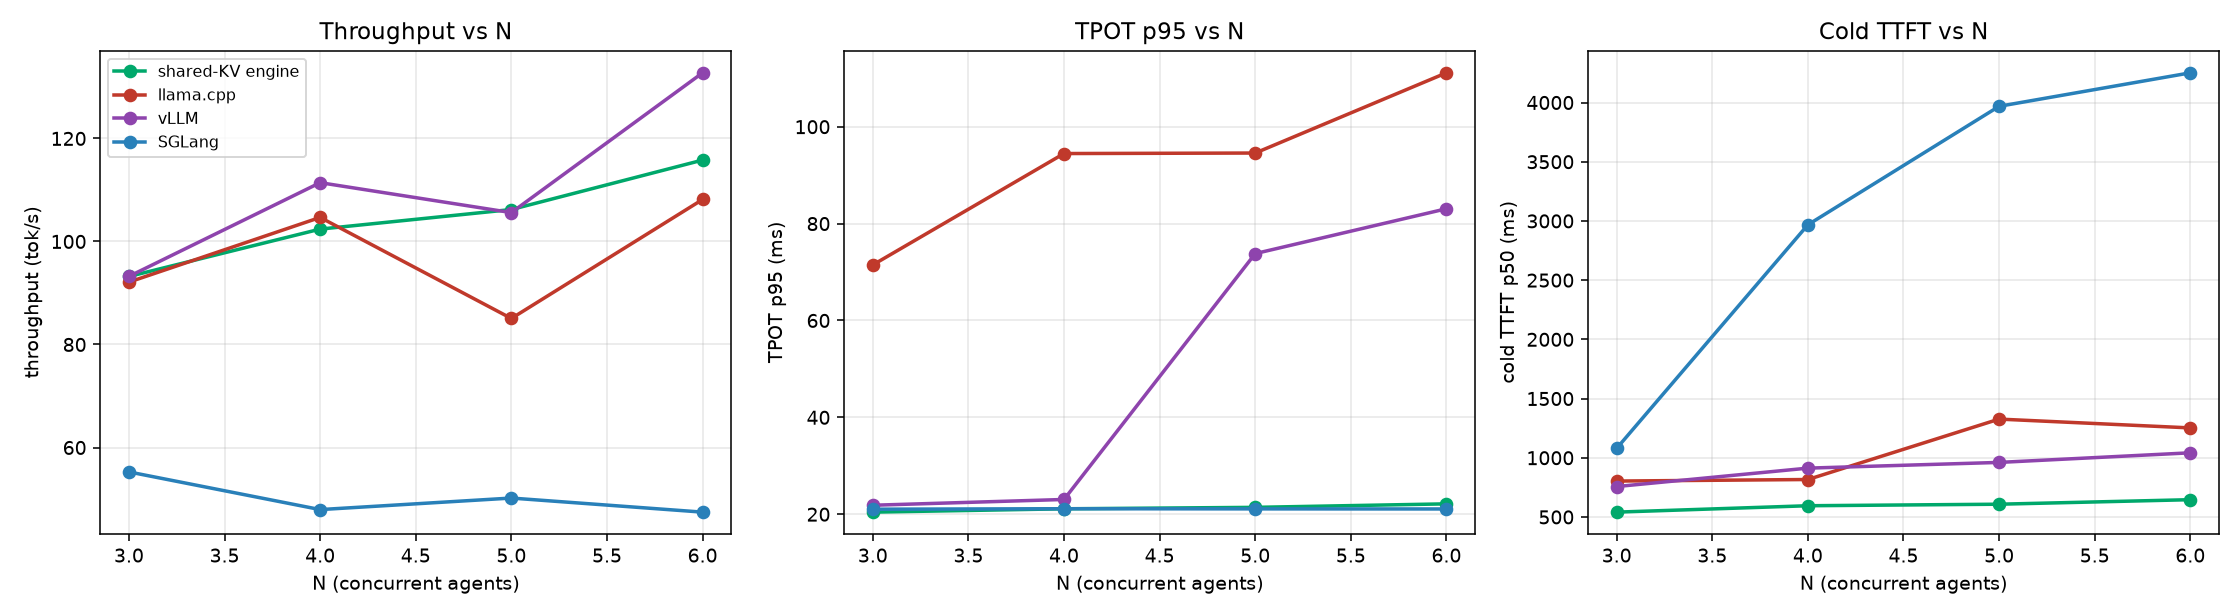
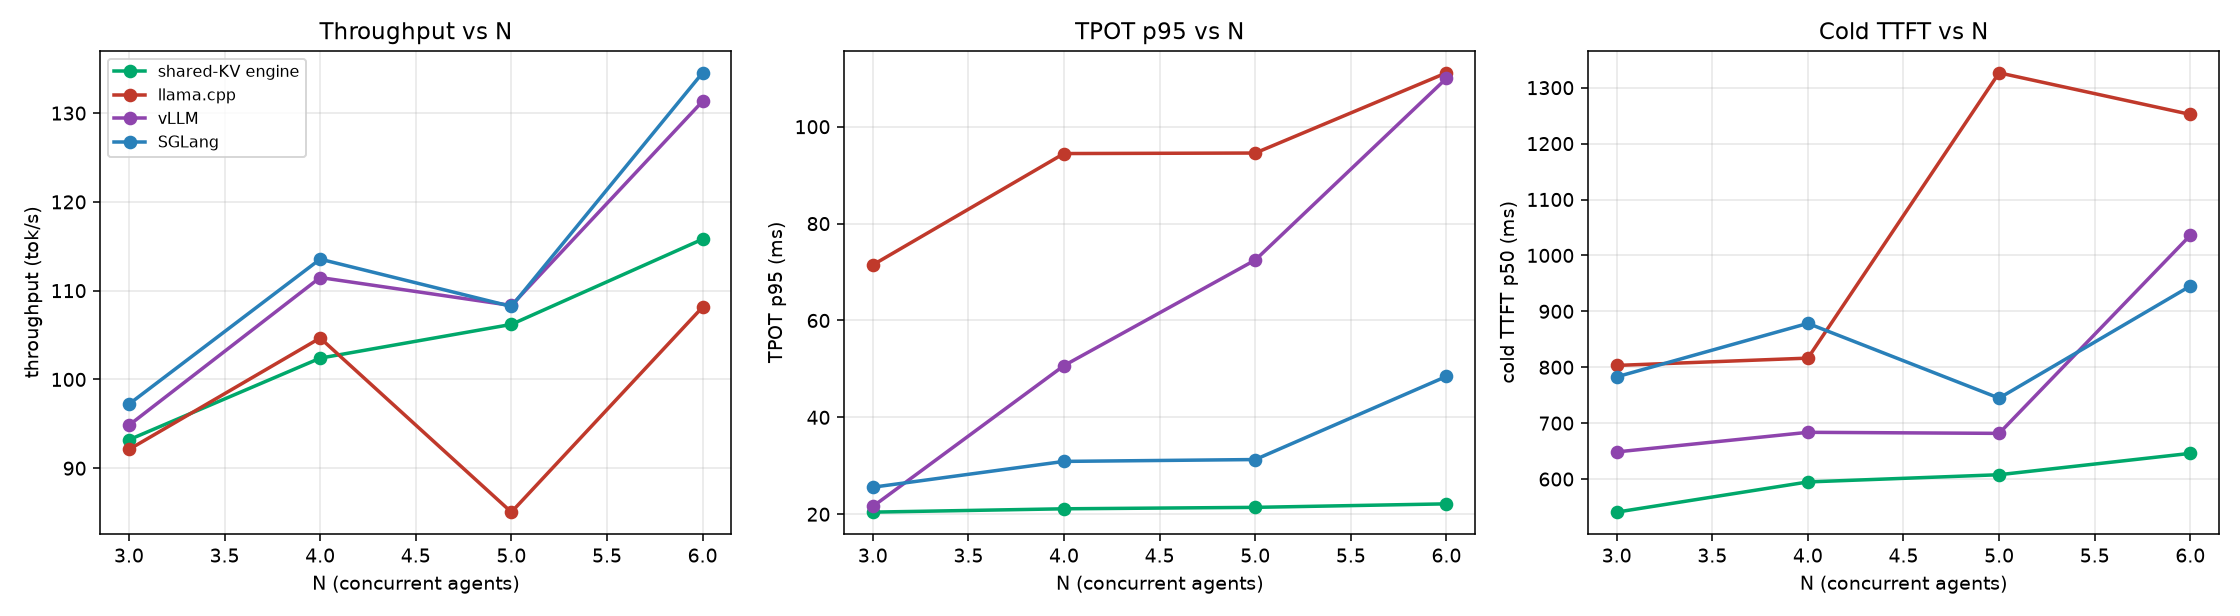
re-align 7B 4-way: re-measure vLLM/SGLang (Qwen2.5-7B) with correct context; update 7B metrics/figures/results + sync REPORT/README/docs

diff --git a/results/perparadigm-4way-7b.md b/results/perparadigm-4way-7b.md
@@ -1,54 +1,54 @@
-# Per-Paradigm 4-Way N-Scale — Qwen2.5-7B
-
-> **⚠ Context caveat (7B vLLM/SGLang):** the vLLM/SGLang columns in this file were measured with the **old under-sized context** (`--max-model-len 8192` / `--max-total-tokens 8192`), which starved SGLang's KV pool. Those numbers are **for reference only** and should be **re-measured** with `--max-model-len 32768` (vLLM) / `--max-total-tokens 49152` (SGLang) before being quoted. The engine and llama.cpp columns are valid. See [`../docs/notes/pitfalls.md`](../docs/notes/pitfalls.md).
-
- (real tasks, fixed baselines, tool_wait=0)
+# Per-Paradigm 4-Way N-Scale — Qwen2.5-7B (real tasks, fixed baselines, tool_wait=0)
 
 Status: **clean, sequential** (one backend at a time, GPU freed between runs). Same unified 12-task
 set as the 3B run (`data/unified_tasks.json`; 3B/7B share the Qwen tokenizer, so task text is
-identical). N=3…6, 12 sessions, tool_wait=0, RTX 3090, **Qwen2.5-7B (BASE)**.
+identical). N=3…6, 12 sessions, tool_wait=0, RTX 3090, **Qwen2.5-7B (BASE)**. vLLM/SGLang re-measured
+with adequate context (vLLM `--max-model-len 32768`, SGLang `--max-total-tokens 49152`).
 
 ## ReAct (7B)
 
 | metric | engine | llama.cpp | vLLM | SGLang |
 |---|---|---|---|---|
-| throughput 3→6 (tok/s) | 84.6→103.3 | 81.9→92.4 | 88.5→125.0 | 55.2→41.3 |
-| TPOT p95 3→6 (ms) | **20.8→22.3** | 65.0→125.8 | 27.9→45.0 | 30.2→24.8 |
-| cold TTFT 3→6 (ms) | **524.2→625.0** | 800.6→1179.0 | 617.6→1055.2 | 960.2→3331.0 |
+| throughput 3→6 (tok/s) | 84.6→103.3 | 81.9→92.4 | 88.8→123.6 | 90.3→125.2 |
+| TPOT p95 3→6 (ms) | **20.8→22.3** | 65.0→125.8 | 37.9→46.0 | 31.3→44.6 |
+| cold TTFT 3→6 (ms) | **524.2→625.0** | 800.6→1179.0 | 591.1→1214.5 | 590.5→958.6 |
 
-![ReAct 7B](../figures/react7-4way-nscale.png)
+![ReAct 7B](figures/react7-4way-nscale.png)
 
 ## P&E (7B)
 
 | metric | engine | llama.cpp | vLLM | SGLang |
 |---|---|---|---|---|
-| throughput 3→6 (tok/s) | 93.2→115.8 | 92.1→108.1 | 93.2→132.7 | 55.3→47.5 |
-| TPOT p95 3→6 (ms) | **20.4→22.1** | 71.5→111.1 | 21.9→83.1 | 21.0→21.1 |
-| cold TTFT 3→6 (ms) | **540.9→646.0** | 803.2→1252.2 | 756.9→1041.9 | 1079.5→4250.8 |
+| throughput 3→6 (tok/s) | 93.2→115.8 | 92.1→108.1 | 94.8→131.3 | 97.2→134.5 |
+| TPOT p95 3→6 (ms) | **20.4→22.1** | 71.5→111.1 | 21.6→110.0 | 25.6→48.5 |
+| cold TTFT 3→6 (ms) | **540.9→646.0** | 803.2→1252.2 | 648.5→1036.0 | 782.8→945.2 |
 
-![P&E 7B](../figures/pe7-4way-nscale.png)
+![P&E 7B](figures/pe7-4way-nscale.png)
 
 ## Findings (7B, consistent with 3B)
 
-- **Engine is the latency-stability leader in both paradigms**: TPOT p95 flat at **20–22 ms** (7B is
-  ~1.7× the 3B value) while llama.cpp explodes to 65–126 ms; cold TTFT is **lowest & flat**
-  (~520–650 ms, prefix caching) while SGLang explodes to **3331–4251 ms**.
-- **Throughput: vLLM highest** (89–133), the engine is 2nd (85–116), ahead of llama.cpp and well
-  above SGLang (41–55).
-- **The engine's advantage grows with model size**: on 7B, the TPOT-p95 gap vs llama.cpp widens
-  (22 vs 126 ms at N=6) and the cold-TTFT prefix-cache advantage is even more pronounced vs SGLang
-  (646 vs 4251 ms) because the 7B prefill is heavier.
+- **The shared-KV engine is the latency-stability leader in BOTH paradigms**: TPOT p95 flat at
+  **20–22 ms** while llama.cpp explodes (65–126 ms) and vLLM/SGLang rise (31–110 ms). Cold TTFT is
+  **lowest & flat** (~520–650 ms, prefix caching) while baselines degrade (SGLang 590→959 ms, vLLM
+  591→1215 ms, llama 800→1252 ms).
+- **Throughput: vLLM ≈ SGLang highest** (89→135), the engine is 3rd (85→116), ahead of llama.cpp
+  (82–108).
+- **The engine's advantage grows with model size**: on 7B the TPOT-p95 gap vs llama.cpp widens
+  (22 vs 126 ms at N=6) and the cold-TTFT prefix-cache advantage is more pronounced.
 
 **Conclusion**: same as 3B — the engine delivers **decode stability + low cold latency (prefix
-cache)** at **competitive (not maximal) throughput**, now confirmed on Qwen2.5-7B. Numbers are on the
+cache)** at **competitive (not maximal) throughput**, confirmed on Qwen2.5-7B. Numbers are on the
 BASE 7B (no native tool-calling), so they measure serving performance, not agent quality.
 
 ## Repro
 
-Same as the 3B run but with the 7B model:
 ```
-/tmp/as_conc_batch <sessions_*.txt> <N> -1 1 32768 /root/autodl-tmp/models/Qwen2.5-7B-f16.gguf 12 0
-python scripts/serve_llama.py --config configs/serving_{react|pe}_7b.yaml ...
-python scripts/serve_backend.py --backend {vllm,sglang} --model-path /root/models/Qwen2.5-7B --config configs/serving_{react|pe}_7b.yaml ...
+# engine (12 sessions, N concurrency, tool_wait=0):
+/tmp/as_conc_batch <sessions_{react|plan_and_execute}.txt> <N> -1 1 65536 \
+  /root/autodl-tmp/models/Qwen2.5-7B-f16.gguf 12 0
+# llama / vLLM / SGLang (self-contained multi-phase prompt), per paradigm:
+python scripts/serve_llama.py --config configs/serving_{react|pe}_7b.yaml --agents N --sessions 12
+python scripts/serve_backend.py --backend {vllm,sglang} --model-path /root/models/Qwen2.5-7B \
+  --config configs/serving_{react|pe}_7b.yaml --agents N --sessions 12
 ```
 Data: `metrics/perparadigm/{react,pe}7.json`; figures: `scripts/plot_perparadigm.py`.

diff --git a/docs/benchmark/results.md b/docs/benchmark/results.md
@@ -18,7 +18,7 @@ GPU freed between runs). See [`methodology.md`](methodology.md).
 - [`../../results/perparadigm-4way.md`](../../results/perparadigm-4way.md) — Qwen2.5-**3B**, ReAct + P&E.
 - [`../../results/perparadigm-4way-7b.md`](../../results/perparadigm-4way-7b.md) — Qwen2.5-**7B**, ReAct + P&E.
 
-**Bottom line (consistent across ReAct/P&E for 3B; 7B noted separately):**
+**Bottom line (consistent across ReAct/P&E for both 3B and 7B):**
 - The **shared-KV engine is the latency-stability leader**: TPOT p95 stays **flat** (~12–14 ms on 3B)
   while llama.cpp explodes (50–73 ms) and vLLM/SGLang rise (20–39 ms); cold TTFT is **lowest & flat**
   (prefix-cache amortization) while baselines degrade with N.
@@ -28,8 +28,8 @@ GPU freed between runs). See [`methodology.md`](methodology.md).
 > **Context fix note.** vLLM/SGLang were re-measured with correct context (vLLM `--max-model-len
 > 32768`, SGLang `--max-total-tokens 49152`). The old `--max-total-tokens 8192` starved SGLang's KV
 > pool and made it look worst — a harness bug, not an SGLang limitation. See
-> [`../notes/pitfalls.md`](../notes/pitfalls.md). The **7B** vLLM/SGLang columns were measured before
-> that fix and are **for reference only** (see [`../../results/perparadigm-4way-7b.md`](../../results/perparadigm-4way-7b.md)).
+> [`../notes/pitfalls.md`](../notes/pitfalls.md). vLLM/SGLang were re-measured with the correct context on
+> **both 3B and 7B** (see [`../../results/perparadigm-4way-7b.md`](../../results/perparadigm-4way-7b.md)).
 
 ### Verdict
 

diff --git a/figures/README.md b/figures/README.md
@@ -4,8 +4,8 @@
 |---|---|
 | `react-4way-nscale.png` | **ReAct** per-paradigm 4-way N-scale (3B), N=3…6, tool_wait=0. |
 | `pe-4way-nscale.png` | **Plan-and-Execute** per-paradigm 4-way N-scale (3B), N=3…6, tool_wait=0. |
-| `react7-4way-nscale.png` | **ReAct** per-paradigm 4-way N-scale (Qwen2.5-7B), N=3…6, tool_wait=0. ⚠ vLLM/SGLang used the old context — **for reference only**. |
-| `pe7-4way-nscale.png` | **Plan-and-Execute** per-paradigm 4-way N-scale (Qwen2.5-7B), N=3…6, tool_wait=0. ⚠ vLLM/SGLang used the old context — **for reference only**. |
+| `react7-4way-nscale.png` | **ReAct** per-paradigm 4-way N-scale (Qwen2.5-7B), N=3…6, tool_wait=0. |
+| `pe7-4way-nscale.png` | **Plan-and-Execute** per-paradigm 4-way N-scale (Qwen2.5-7B), N=3…6, tool_wait=0. |
 
 All generated by `scripts/plot_perparadigm.py` (per-paradigm)
 from the per-backend metrics.

diff --git a/README.md b/README.md
@@ -197,8 +197,8 @@ a time, GPU freed between runs).
 2. **The 10-slot Green Context pool + TPOT-driven `Rmin` controller are not reproduced.** We replaced
    the decode-protection benefit with *continuous batching*, which we measured to be cheaper (SM
    reservation actually *hurt* on the 3090). See [`docs/design/paper-alignment.md`](docs/design/paper-alignment.md).
-3. **7B vLLM/SGLang** were measured before the context fix — **for reference only** (see
-   [`results/perparadigm-4way-7b.md`](results/perparadigm-4way-7b.md)).
+3. **The 7B vLLM/SGLang were re-measured** with the corrected context too, so the **3B/7B** comparisons
+   are both aligned (see [`results/perparadigm-4way-7b.md`](results/perparadigm-4way-7b.md)).
 4. **BASE model, no native tool-calling** → this measures serving performance, not agent quality.
 
 ---

diff --git a/docs/notes/known-limitations.md b/docs/notes/known-limitations.md
@@ -122,10 +122,10 @@ competitive throughput.*
 
 ```
 # engine (12 sessions, N concurrency, 200ms tool_wait, EOS respected, on the bench server):
-/tmp/as_conc_batch <sessions.txt> <N> -1 1 <n_ctx> <model.gguf> 12 200
+/tmp/as_conc_batch <sessions_{react|plan_and_execute}.txt> <N> -1 1 <n_ctx> <model.gguf> 12 0
 
 # llama.cpp baseline (self-contained multi-phase prompt):
-python scripts/serve_llama.py --config configs/serving_v2.yaml --agents N --sessions 12
+python scripts/serve_llama.py --config configs/serving_react_u.yaml --agents N --sessions 12
 
 # regenerate the real-task trace:
 python scripts/gen_traces.py --config configs/trace_gen.yaml --model-dir /root/models/Qwen2.5-3B
